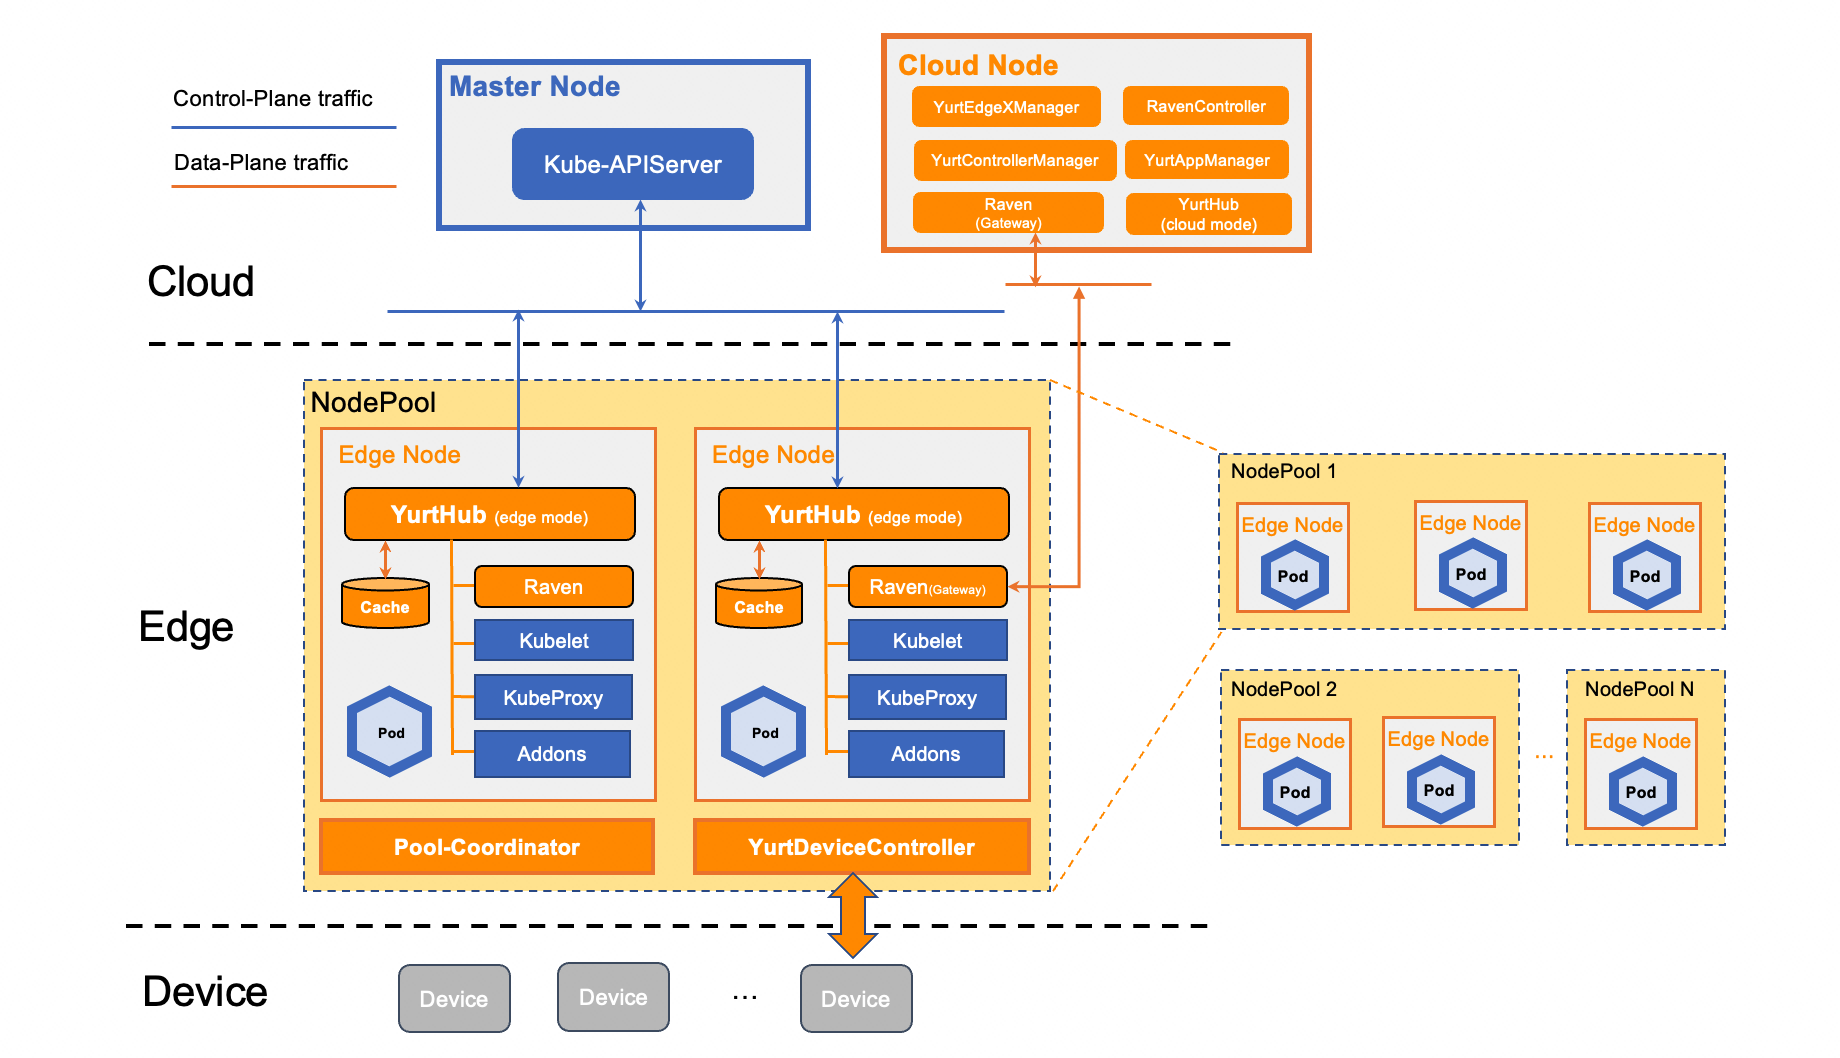
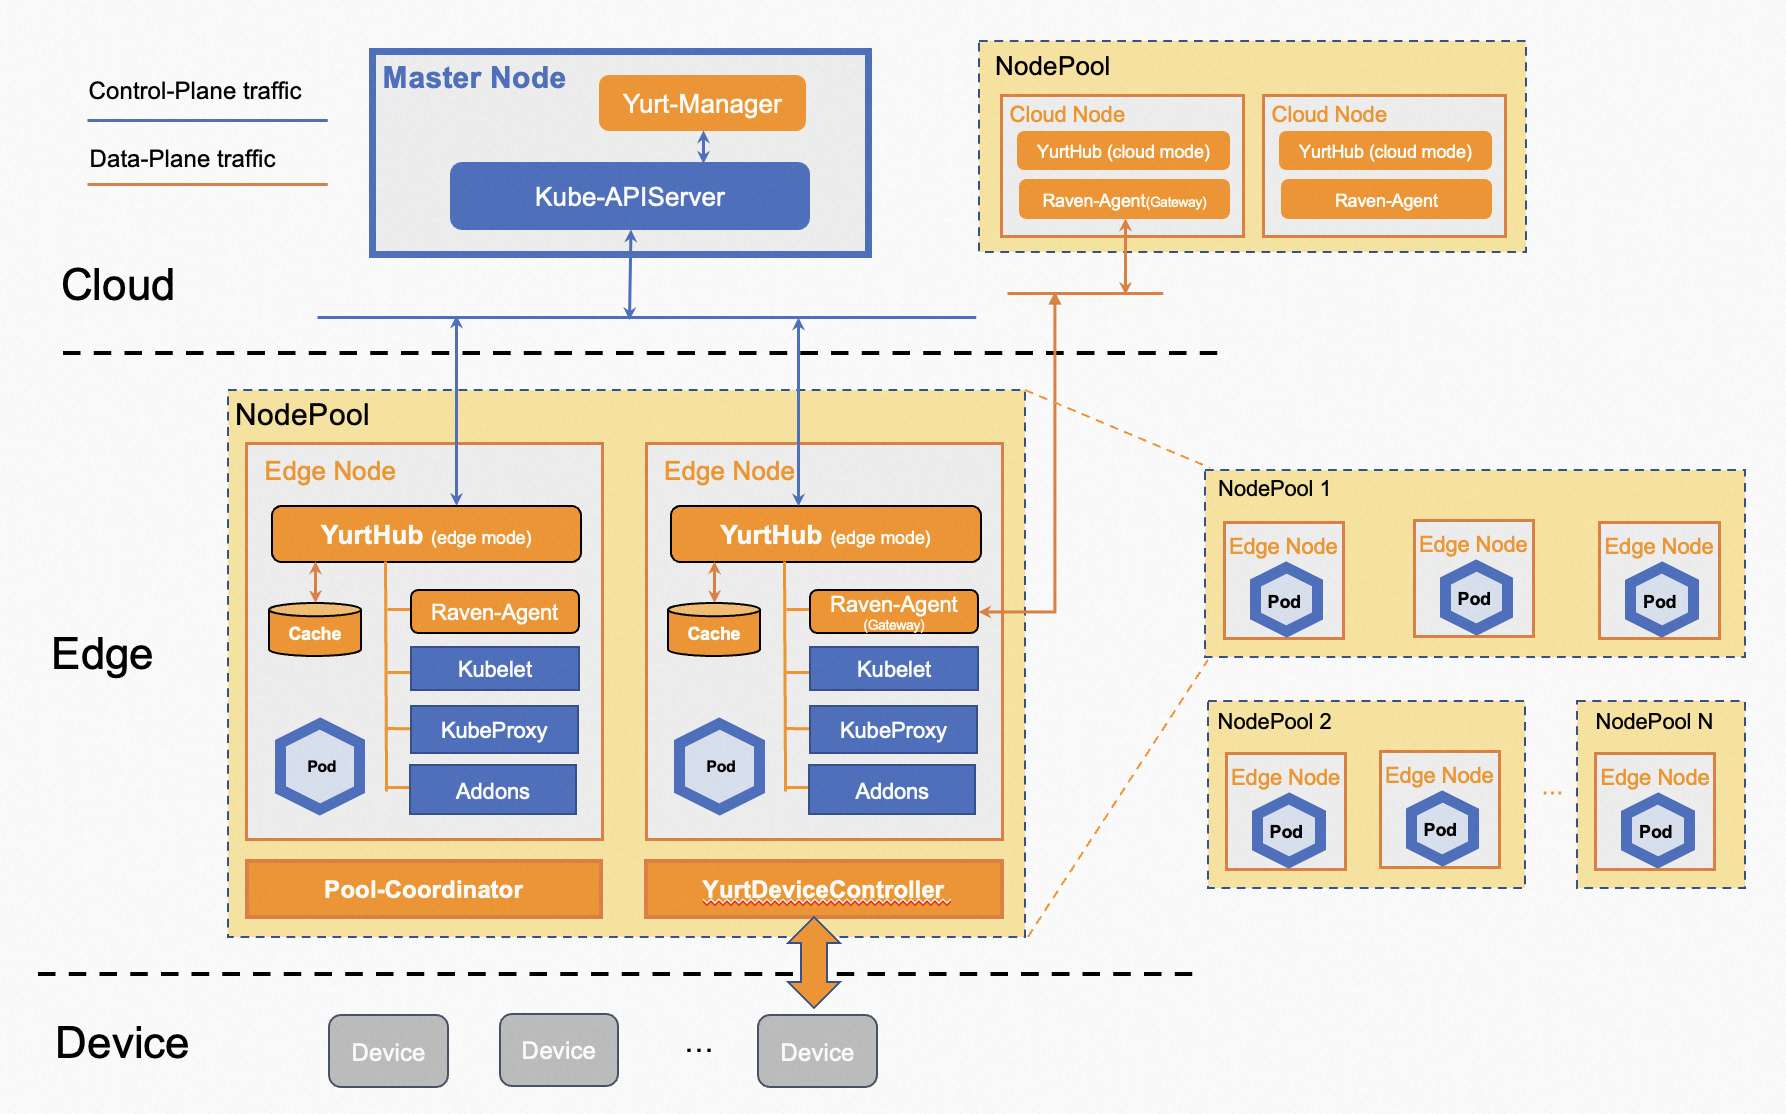
update arch

diff --git a/sidebars.js b/sidebars.js
@@ -44,16 +44,12 @@ module.exports = {
                     'Components': [
                         'core-concepts/raven',
                         'core-concepts/yurthub',
-                        'core-concepts/yurttunnel',
                         'core-concepts/yurt-manager',
-                        'core-concepts/yurt-app-manager',
-                        'core-concepts/yurt-controller-manager',
                         'core-concepts/node-resource-manager',
                         'core-concepts/yurt-device-controller',
                         'core-concepts/yurt-coordinator',
                     ]
                 }
-
             ],
         },
         {
@@ -73,8 +69,7 @@ module.exports = {
                         'user-manuals/network/raven',
                         'user-manuals/network/bandwidth-reduction',
                         'user-manuals/network/edge-pod-network',
-                        'user-manuals/network/service-topology',
-                        'user-manuals/network/edge-ingress'
+                        'user-manuals/network/service-topology'
                     ]
                 },
                 {

diff --git a/docs/user-manuals/autonomy/node-pod-binding.md b/docs/user-manuals/autonomy/node-pod-binding.md
@@ -12,42 +12,24 @@ Users can enable/disable binding feature by following steps.
 
 - **Add Binding Annotation to Node**
 
-Users can add binding annotation to nodes to enable the Edge Binding feature, and all Pods on the node will be bound to that node and will not be affected by the cloud-edge network.
+Users can add binding annotation: `apps.openyurt.io/binding=true`(node.beta.openyurt.io/autonomy=true is deprecated) to nodes to enable the Edge Binding feature, and all Pods on the node will be bound to that node and will not be affected by the cloud-edge network.
 
 ```bash
 # enable Edge Binding on node1
-kubectl annotate nodes node1 node.beta.openyurt.io/autonomy=true
+kubectl annotate nodes node1 apps.openyurt.io/binding=true
 ```
 
 There're following two ways to disable the Edge Binding of node.
 
 ```bash
 # remove the binding annotation
-kubectl annotate nodes node1 node.beta.openyurt.io/autonomy-
+kubectl annotate nodes node1 apps.openyurt.io/binding-
 # set the value of binding annotation as false
-kubectl annotate --overwrite nodes node1 node.beta.openyurt.io/autonomy=false
-```
-
-- **Add Binding Annotation to Pod**
-
-Users can also by adding the Annotation to the Pod to enable binding (or modify the `Deployment.Spec.Template.Annotations` field, all Pods will be affected), the Pod will be bound to the node, not affected by cloud edge network.
-
-```bash
-# pod1 enable Binding
-kubectl annotate pods pod1 apps.openyurt.io/binding=true
-```
-
-There're following two ways to disable Binding.
-
-```bash
-# remove the binding annotation
-kubectl annotate pods pod1 apps.openyurt.io/binding-
-# set the value of binding annotation as false
-kubectl annotate --overwrite pods pod1 apps.openyurt.io/binding=false
+kubectl annotate --overwrite nodes node1 apps.openyurt.io/binding=false
 ```
 
 ## Note
 
-- Edge Node After the node binding function is enabled,  pods on edge nodes will not be expelled, no matter the node NotReady caused by cloud edge network disconnection or node fault.
+- Edge Node After the node binding function is enabled,  pods on edge nodes will not be evicted, no matter the node NotReady caused by cloud edge network disconnection or node fault.
 - Node binding is not recommended for cloud nodes. If enabled, pods cannot be evicted and rescheduled when the cloud node is NotReady.
-- After OpenYurt version 1.2.0, if a Pool-Coordinator is enabled, edge nodes can maintain the Ready state even when the cloud edge network is disconnected using the heartbeat proxy mechanism. In this case, the node binding capability ensures that NotReady service Pods will not be expelled even if the node fails.
+- After OpenYurt version 1.2.0, if a Pool-Coordinator is enabled, edge nodes can maintain the Ready state even when the cloud edge network is disconnected using the heartbeat proxy mechanism. In this case, the node binding capability ensures that NotReady service Pods will not be evicted even if the node fails.

diff --git a/docs/core-concepts/architecture.md b/docs/core-concepts/architecture.md
@@ -25,23 +25,21 @@ Raven builds VPN channels to ensure connectivity from cloud to edge or edge to e
 
 ### OpenYurt Components
 
-- **Raven-Controller-Manager/Raven:**
+- **Raven:**
   - Raven is component of the OpenYurt to enhance cluster networking capabilities. This enhancement is focused on edge-edge and edge-cloud communication in OpenYurt.
     In short, it will provide layer 3 network connectivity among pods in different physical regions, as there are in one vanilla Kubernetes cluster.
-  - Deployment pattern: Deployment for Raven-Controller-Manager in cloud nodes, DaemonSet for Raven in all nodes.
+  - Deployment pattern: DaemonSet for Raven in all nodes.
 
 - **YurtHub:**
-  - YurtHub is a sidecar in node level, it performs the role of traffic proxy between kube nodes and kube-apiserver.
+  - YurtHub is a sidecar in node level, it performs the role of requests proxy between worker nodes and kube-apiserver.
     It has two running modes: edge and cloud. In edge mode, it will cache the data returned from cloud, and store in local disk.
   - Deployment pattern: Static pod in each node.
 
-- **YurtControllerManager：**
-  - YurtControllerManager is centralized controller, which consists of NodeLifeCycle Controller(for not evicting pods in autonomy nodes) and YurtCSRController(for approval of edge certificates).
-  - Deployment pattern: Deployment in cloud nodes.
-
-- **YurtAppManager:**
-  - YurtAppManager is application controller for managing cross region workloads. It consists of the management of Nodepools(node groups), YurtAppSet(previous named UnitedDeployment)(nodepool level workloads), YurtAppDaemon(nodepool level daemonset), and YurtIngress(nodepool level ingress).
-  - Deployment pattern: Deployment in cloud nodes.
+- **Yurt-Manager：**
+  - The Yurt-Manager component consists of several controllers and webhooks, which are used to provide abilities to ensure that Kubernetes can work as it would in a normal data center
+    in a cloud-edge collaboration scenario.
+  - Deployment pattern: The Yurt-Manager component is recommended to co-located with Kubernetes control plane components such as Kube-Controller-Manager. and Yurt-Manager is deployed as a `Deployment`, usually consists of
+    two instances, one leader and one backup.
 
 - **YurtDeviceController/YurtEdgeXManager:**
   - YurtDeviceController and YurtEdgeXManager manage edge devices in cloud native way, they combine EdgeX Foundry and OpenYurt seamlessly, providing IOT solutions in an easy, efficient way.

diff --git a/i18n/zh/docusaurus-plugin-content-docs/current/user-manuals/autonomy/node-pod-binding.md b/i18n/zh/docusaurus-plugin-content-docs/current/user-manuals/autonomy/node-pod-binding.md
@@ -12,40 +12,21 @@ title: 业务与节点绑定
 
 1. **修改节点 Annotation**
 
-用户可以通过给 Node 添加 Annotation，开启绑定功能，节点上的所有Pod都将绑定到该节点上，不会受云边网络的影响。
+用户可以通过给 Node 添加 Annotation: `apps.openyurt.io/binding=true`(node.beta.openyurt.io/autonomy已废弃)，开启绑定功能，节点上的所有Pod都将绑定到该节点上，不会受云边网络的影响。
 
 ```bash
 # node1 开启节点绑定
-kubectl annotate nodes node1 node.beta.openyurt.io/autonomy=true
+kubectl annotate nodes node1 apps.openyurt.io/binding=true
 ```
 
 通过以下两种方式的命令，关闭节点绑定。
 
 ```bash
 # 通过删除 annotation 关闭绑定功能
-kubectl annotate nodes node1 node.beta.openyurt.io/autonomy-
+kubectl annotate nodes node1 apps.openyurt.io/binding-
 
-# 通过修改 node.beta.openyurt.io/autonomy 值为 false 关闭节点绑定功能
-kubectl annotate --overwrite nodes node1 node.beta.openyurt.io/autonomy=false
-```
-
-2. **修改Pod Annotation**
-
-用户也可以通过给 Pod 添加 Annotation，开启绑定功能，该Pod将绑定到节点上，不会受云边网络的影响（也可以通过修改Deployment里的`Deployment.Spec.Template.Annotations`字段，使所有Pod都开启绑定）。
-
-```bash
-# pod1 开启绑定
-kubectl annotate pods pod1 apps.openyurt.io/binding=true
-```
-
-通过以下两种方式的命令，关闭绑定。
-
-```bash
-# 通过删除 annotation 关闭绑定
-kubectl annotate pods pod1 apps.openyurt.io/binding-
-
-# 通过修改 node.beta.openyurt.io/autonomy 值为 false 关闭绑定
-kubectl annotate --overwrite pods pod1 apps.openyurt.io/binding=false
+# 通过修改 apps.openyurt.io/binding 值为 false 关闭节点绑定功能
+kubectl annotate --overwrite nodes node1 apps.openyurt.io/binding=false
 ```
 
 ## 注意事项

diff --git a/docs/core-concepts/yurthub.md b/docs/core-concepts/yurthub.md
@@ -85,16 +85,7 @@ The Cloud Request Processing Module is made of the following components:
    takes the responsibility of establishing the connection between `YurtHub` and `Kube-APIServer`. It will send requests from pods and `Kubelet` to the cloud. `Load Balancer` supports multiple Kube-APIServer addresses, and use Round-Robin or Priority mode to do the load balance. It uses `Data Filtering Framework` to process responses and `Storage Manager` to cache resources in responses.
 
 - **Data Filtering Framework**
-   takes the responsibility of filtering data to extend the capability of `YurtHub`. Currently, three filters are included.
-
-  - MasterService Filter：
-  enable users to seamlessly migrate pods which uses InClusterConfig to the edge side without modification.
-  
-  - ServiceTopology Filter：
-  provide the capability of traffic closure, limiting the endpoints in the same nodepool as the node.
-
-  - DiscardCloudService Filter：
-  ensure that client at the edge side uses public network to reach the endpoints of cloud service instead of the PodIP when the cloud and edge are in the separated network.
+   takes the responsibility of filtering data to extend the capability of `YurtHub`. Please refer to the link for detailed design: [resource-access-control](../user-manuals/resource-access-control/resource-access-control.md)
 
 - **GC Manager**
    Each time when `YurtHub` restarts, it will recycle pod resources in the cache which does not exist any more at the cloud. During the runtime, it will periodically recycle cached event resources of `kubelet` and `kube-proxy` .

diff --git a/i18n/zh/docusaurus-plugin-content-docs/current/core-concepts/yurthub.md b/i18n/zh/docusaurus-plugin-content-docs/current/core-concepts/yurthub.md
@@ -87,12 +87,7 @@ YurtHub 既可以运行在云端节点上，也可以运行在边缘节点上。
    同时，LB 模块还负责对请求的响应消息进行处理以及本地缓存，其中对响应消息的处理调用了 Data Filtering Framework 模块，本地缓存调用了 Storage Manager 模块。
 
 - **Data Filtering Framework**
-    对请求响应消息进行数据过滤处理，以扩展 YurtHub 的能力。目前包含了三个过滤器：
-
-  - MasterService Filter：提供了使用 InClusterConfig 的业务 Pod 零修改就可以运行在边缘环境的能力。
-  - ServiceTopology Filter：提供了流量闭环的能力，将服务访问的后端限制在节点所在的 NodePool 中。
-
-  - DiscardCloudService Filter：当云端与边缘位于不同网络平面时，边缘通过公网访问而不是 PodIP 访问后端服务，以确保边缘能够正确访问。
+    对请求响应消息进行数据过滤处理，以扩展 YurtHub 的能力。详细设计请参照链接: [可编程资源访问控制](../user-manuals/resource-access-control/resource-access-control.md)
 
 - **GC Manager**
    在 YurtHub 每次重启时，将节点上存储的并且云端已经不存在的 Pod 资源进行回收。之后每隔一定时间对节点上缓存的 kubelet、kube-proxy event 资源进行回收删除操作。
